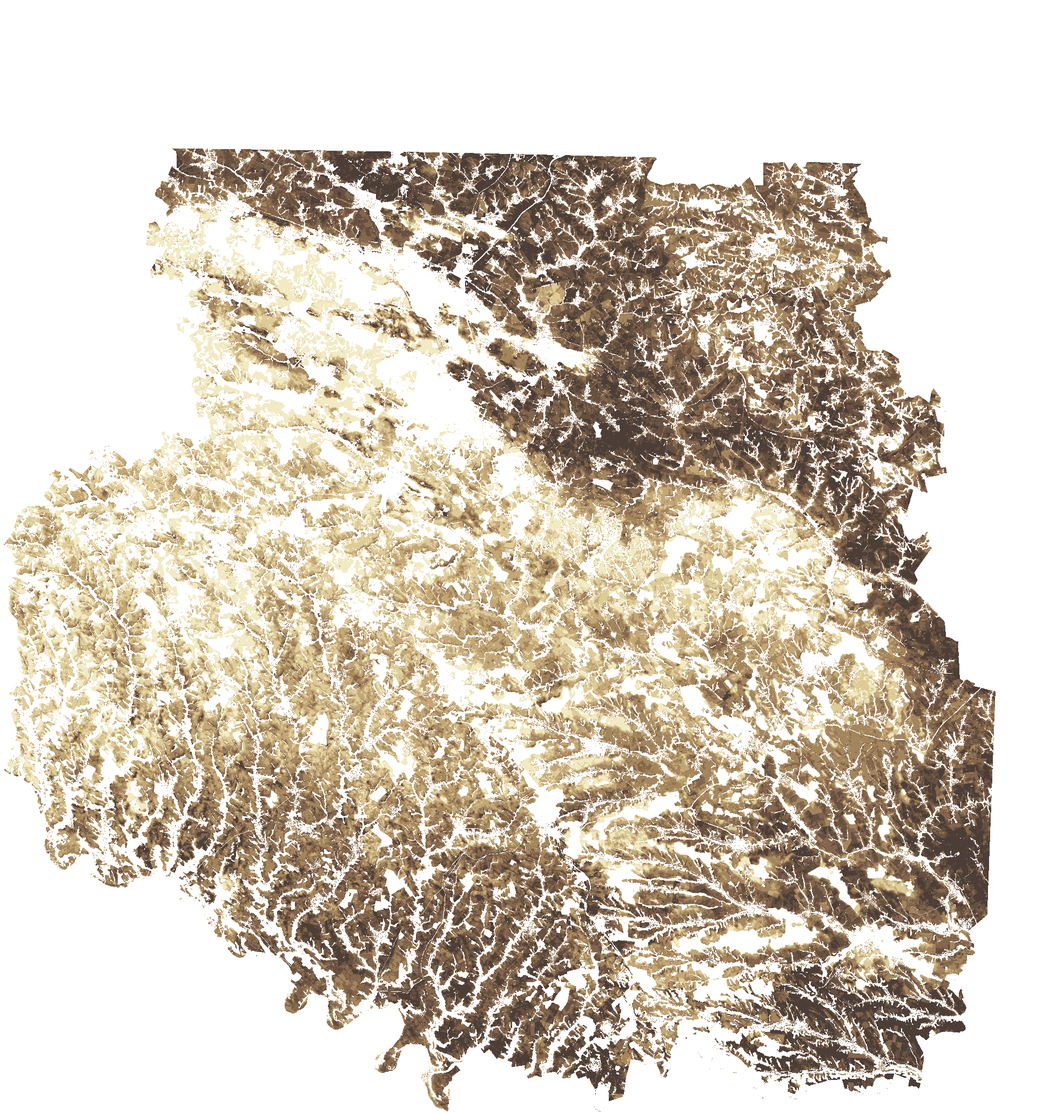
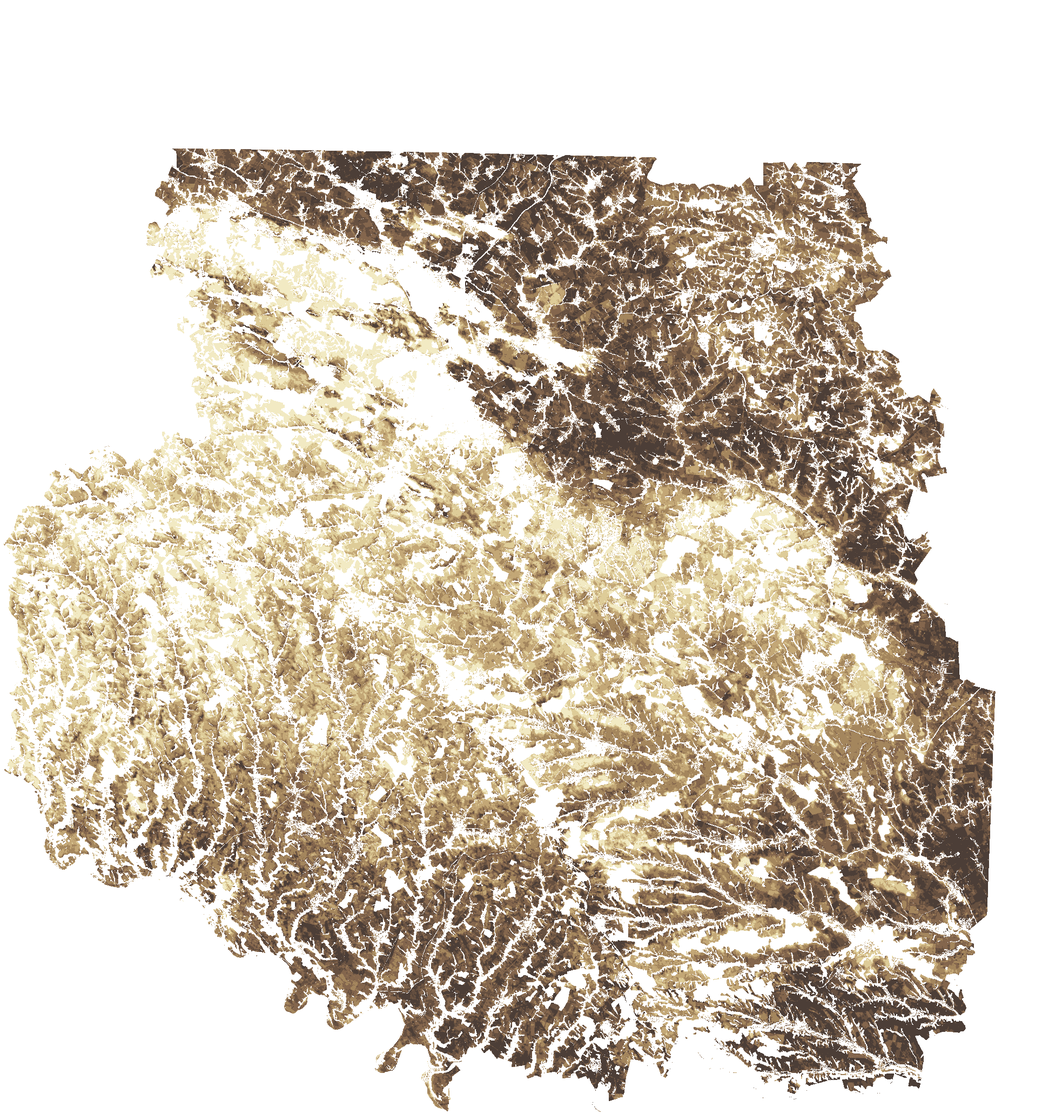
Soil darkness: layer in the private viewer, mosaic clipped to the oblast
05b_viewer.py and the template add the public soil-darkness picture as a plain
underlay (off by default); docs/private still has to be regenerated with the
password. 03d.mosaic clips to the oblast so edge tiles fit in memory; 07 reuses it.

Claude-Session: https://claude.ai/code/session_0156rQQbt1mrBTNMFw3dSAKH

diff --git a/research/chernyakhiv/viewer_template.html b/research/chernyakhiv/viewer_template.html
@@ -143,6 +143,13 @@ const overlayLayers = {
   "Водотоки з DEM (≥ 1 км²)": channels,
   "Водотоки OSM": waterways,
 };
+// Soil darkness of ploughed land (Sentinel-2 bare-soil composite): off by default.
+// Dark brown = darker bare soil (more humus), pale = lighter; no data off the fields.
+if (OVERLAYS.bare_soil) {
+  overlayLayers["Темнота голої ріллі (Sentinel-2): темніше = більше гумусу"] =
+    L.imageOverlay("bare_soil.png", OVERLAYS.bare_soil, { opacity: 0.8, pane: "raster",
+      attribution: "Contains modified Copernicus Sentinel data 2018–2026; © ESA WorldCover 2021" });
+}
 // Suitability and candidates are switched from the panel, where their legend is.
 const suitability = OVERLAYS.suitability
   ? L.imageOverlay("suitability.png", OVERLAYS.suitability, { opacity: 0.6, pane: "raster" }).addTo(map)

diff --git a/preprocessing/07_export_bare_soil.py b/preprocessing/07_export_bare_soil.py
@@ -24,6 +24,7 @@ Run: python 07_export_bare_soil.py --tiles 35UPQ 35UNQ 35UPP 35UNP
 from __future__ import annotations
 
 import argparse
+import importlib.util
 import json
 from pathlib import Path
 
@@ -51,33 +52,15 @@ ALPHA = 215
 
 
 def calibrated_mosaic(tiles: list[str]) -> tuple[np.ndarray, Affine, object]:
-    """Mean `vis_norm` of the tiles on one UTM grid. Each tile is normalised by its
-    own scenes, so every new tile is scaled to the mosaic on their overlap."""
-    srcs = [rasterio.open(BARE / f"{t}_bare.tif") for t in tiles]
-    crs = srcs[0].crs
-    left = min(s.bounds.left for s in srcs)
-    top = max(s.bounds.top for s in srcs)
-    w = round((max(s.bounds.right for s in srcs) - left) / PX)
-    h = round((top - min(s.bounds.bottom for s in srcs)) / PX)
-    total = np.zeros((h, w), np.float32)
-    count = np.zeros((h, w), np.float32)
-    for tile, s in zip(tiles, srcs, strict=True):
-        r0, c0 = round((top - s.bounds.top) / PX), round((s.bounds.left - left) / PX)
-        sl = (slice(r0, r0 + s.height), slice(c0, c0 + s.width))
-        a = s.read(7)
-        ok = np.isfinite(a)
-        both = ok & (count[sl] > 0)
-        if both.sum() > 10_000:
-            ratio = float(np.median(total[sl][both] / count[sl][both] / a[both]))
-            print(
-                f"  {tile}: scaled by {ratio:.3f} on {both.sum() * PX * PX / 1e6:.0f} km2 overlap"
-            )
-            a = a * ratio
-        total[sl] += np.where(ok, a, 0)
-        count[sl] += ok
-        s.close()
-    mosaic = np.where(count > 0, total / np.maximum(count, 1), np.nan).astype(np.float32)
-    return mosaic, Affine(PX, 0, left, 0, -PX, top), crs
+    """`vis_norm` of the tiles on one UTM grid, tiles calibrated on their overlaps
+    (the mosaic lives next to the composites, in 03d_bare_soil.py)."""
+    path = PROJECT_ROOT / "research" / "chernyakhiv" / "03d_bare_soil.py"
+    spec = importlib.util.spec_from_file_location("bare_soil", path)
+    module = importlib.util.module_from_spec(spec)
+    spec.loader.exec_module(module)
+    layers, transform, crs, seams = module.mosaic(tiles)
+    print("seams:", json.dumps(seams))
+    return layers["vis_norm"].astype(np.float32), transform, crs
 
 
 def block_mean(a: np.ndarray, k: int, min_share: float) -> np.ndarray:
@@ -108,7 +91,11 @@ def colorize(classes: np.ndarray) -> np.ndarray:
 
 def main() -> None:
     ap = argparse.ArgumentParser()
-    ap.add_argument("--tiles", nargs="+", default=["35UPQ", "35UNQ", "35UPP", "35UNP"])
+    ap.add_argument(
+        "--tiles",
+        nargs="+",
+        default=["35UPQ", "35UNQ", "35UPP", "35UNP", "35UPR", "35UNR", "35UQP"],
+    )
     args = ap.parse_args()
 
     mosaic, transform, crs = calibrated_mosaic(args.tiles)

diff --git a/research/chernyakhiv/03d_bare_soil.py b/research/chernyakhiv/03d_bare_soil.py
@@ -389,8 +389,16 @@ def mosaic(tiles: list[str], suffix: str = ""):
     assert all(s.crs == crs for s in srcs)
     left = min(s.bounds.left for s in srcs)
     top = max(s.bounds.top for s in srcs)
-    w = round((max(s.bounds.right for s in srcs) - left) / px)
-    h = round((top - min(s.bounds.bottom for s in srcs)) / px)
+    right = max(s.bounds.right for s in srcs)
+    bottom = min(s.bounds.bottom for s in srcs)
+    area = OUT.parent / "elevation.tif"  # the oblast + 3 km: edge tiles reach far beyond it
+    if area.exists():
+        with rasterio.open(area) as ref:
+            l2, b2, r2, t2 = transform_bounds(ref.crs, crs, *ref.bounds, densify_pts=21)
+        snap = lambda v, f: f((v - left) / px) * px + left  # noqa: E731 - keep the 20 m grid
+        left, right = max(left, snap(l2, np.floor)), min(right, snap(r2, np.ceil))
+        top, bottom = min(top, snap(t2, np.ceil)), max(bottom, snap(b2, np.floor))
+    w, h = round((right - left) / px), round((top - bottom) / px)
     names = ["vis_norm", "vis", "swir"]
     total = {n: np.zeros((h, w), np.float32) for n in names}
     n_dates = np.zeros((h, w), np.float32)
@@ -398,12 +406,20 @@ def mosaic(tiles: list[str], suffix: str = ""):
     inside = np.zeros((h, w), bool)
     seams = {}
     for tile, s in zip(tiles, srcs, strict=True):
+        # the part of the tile inside the canvas
         r0, c0 = round((top - s.bounds.top) / px), round((s.bounds.left - left) / px)
-        sl = (slice(r0, r0 + s.height), slice(c0, c0 + s.width))
+        ra, rb = max(r0, 0), min(r0 + s.height, h)
+        ca, cb = max(c0, 0), min(c0 + s.width, w)
+        if ra >= rb or ca >= cb:
+            seams[tile] = {"overlap_km2": 0, "outside": True}
+            s.close()
+            continue
+        sl = (slice(ra, rb), slice(ca, cb))
+        win = Window(ca - c0, ra - r0, cb - ca, rb - ra)
         layers = {
-            "vis_norm": s.read(7),
-            "vis": s.read([1, 2, 3]).mean(axis=0),
-            "swir": s.read([5, 6]).mean(axis=0),
+            "vis_norm": s.read(7, window=win),
+            "vis": s.read([1, 2, 3], window=win).mean(axis=0),
+            "swir": s.read([5, 6], window=win).mean(axis=0),
         }
         ok = np.isfinite(layers["vis_norm"])
         both = ok & (count[sl] > 0)
@@ -421,7 +437,7 @@ def mosaic(tiles: list[str], suffix: str = ""):
         seams[tile] = seam
         for n in names:
             total[n][sl] += np.where(ok, layers[n], 0)
-        n_dates[sl] = np.maximum(n_dates[sl], np.nan_to_num(s.read(8)))
+        n_dates[sl] = np.maximum(n_dates[sl], np.nan_to_num(s.read(8, window=win)))
         count[sl] += ok
         inside[sl] = True
         s.close()

diff --git a/research/chernyakhiv/05b_viewer.py b/research/chernyakhiv/05b_viewer.py
@@ -127,6 +127,18 @@ def channels_png(out: Path) -> list:
     return bounds
 
 
+def bare_soil_png(out: Path) -> list | None:
+    """Soil darkness of ploughed land (Sentinel-2; preprocessing/07_export_bare_soil.py).
+    The same picture as on the public site: it says nothing about the sites."""
+    public = PROJECT_ROOT / "docs" / "data"
+    meta = public / "bare_soil_darkness.json"
+    if not meta.exists():
+        print("  (no soil darkness layer: run preprocessing/07_export_bare_soil.py)")
+        return None
+    (out / "bare_soil.png").write_bytes((public / "bare_soil_darkness.png").read_bytes())
+    return json.loads(meta.read_text(encoding="utf-8"))["bounds"]
+
+
 def suitability_png(out: Path) -> list | None:
     if not SUITABILITY.exists():
         print("  (no suitability raster: run 05d_map.py)")
@@ -312,6 +324,7 @@ def main() -> None:
     overlays["hillshade"] = hillshade_image(out)
     print("suitability ...")
     overlays["suitability"] = suitability_png(out)
+    overlays["bare_soil"] = bare_soil_png(out)
     html = (HERE / "viewer_template.html").read_text(encoding="utf-8")
     html = html.replace("/*OVERLAYS*/null", json.dumps(overlays))
     html = html.replace('/*MODE*/"plain"', json.dumps("encrypted" if args.private else "plain"))

diff --git a/tests/test_chernyakhiv_private.py b/tests/test_chernyakhiv_private.py
@@ -22,6 +22,7 @@ ALLOWED = {
     "channels.png",
     "hillshade.webp",
     "suitability.png",
+    "bare_soil.png",
     "waterways.geojson",
 }
 

diff --git a/research/chernyakhiv/PLAN.md b/research/chernyakhiv/PLAN.md
@@ -544,3 +544,13 @@ dist_water, dist_river, hand (над найближчим водотоком OSM
   обрізати її до області.
   Далі: етап D (модель v2) без темноти ґрунту. Необов'язкове: крайові плитки
   35UNR/35UPR/35UQP (північ і схід області), чутливість до порогів NDVI/NBR2.
+- **2026-11-16 (ранок)** — Закритий перегляд: `05b_viewer.py` і шаблон тепер додають
+  шар «Темнота голої ріллі» (відкрита підкладка, типово вимкнена); `docs/private/`
+  оновиться після перегенерації з паролем користувача. Мозаїка обрізається до
+  області (`03d.mosaic`), `07` бере її з `03d`. Крайові плитки 35UPR/35UNR/35UQP
+  добираються від'єднаним процесом; після них `data/processed/env/bare_soil/
+  finalize.sh` сам перегенеровує `env/bare_*.tif` і шар сайту на всю область,
+  запускає тести і, якщо зелені, комітить і пушить (журнал — `finalize.log`).
+  Якщо `finalize.log` закінчується не словом DONE — доробити вручну:
+  `03d_bare_soil.py grid --tiles <7 плиток>`, `07_export_bare_soil.py`, pytest, коміт.
+  Дані етапу S користувач планує використати на етапі E (точні координати поселень).
